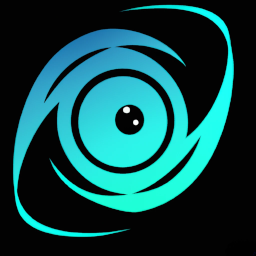
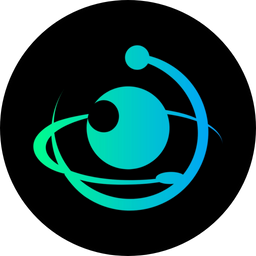
.

diff --git a/index.html b/index.html
@@ -1,5 +1,5 @@
 <!DOCTYPE html><!--  This site was created in Webflow. https://www.webflow.com  -->
-<!--  Last Published: Mon Jul 10 2023 20:48:55 GMT+0000 (Coordinated Universal Time)  -->
+<!--  Last Published: Mon Jul 10 2023 21:24:34 GMT+0000 (Coordinated Universal Time)  -->
 <html data-wf-page="63914266075340ff73167253" data-wf-site="639142660753402b7a167252" lang="en">
 <head>
   <meta charset="utf-8">
@@ -23,7 +23,7 @@
   <script src="https://ajax.googleapis.com/ajax/libs/webfont/1.6.26/webfont.js" type="text/javascript"></script>
   <script type="text/javascript">WebFont.load({  google: {    families: ["Exo:100,100italic,200,200italic,300,300italic,400,400italic,500,500italic,600,600italic,700,700italic,800,800italic,900,900italic","Inter:100,200,300,regular,500,600,700,800,900"]  }});</script>
   <script type="text/javascript">!function(o,c){var n=c.documentElement,t=" w-mod-";n.className+=t+"js",("ontouchstart"in o||o.DocumentTouch&&c instanceof DocumentTouch)&&(n.className+=t+"touch")}(window,document);</script>
-  <link href="images/favicon.ico" rel="shortcut icon" type="image/x-icon">
+  <link href="images/favicon.png" rel="shortcut icon" type="image/x-icon">
   <link href="images/webclip.png" rel="apple-touch-icon">
   <link href="https://quantumone.network/" rel="canonical">
   <script async="" src="https://www.googletagmanager.com/gtag/js?id=G-FC9HT4VEY6"></script>
@@ -296,13 +296,13 @@
         <div data-w-id="f567adfd-1fc5-47fc-fe1d-b3cb4ed22463" style="-webkit-transform:translate3d(0, 15px, 0) scale3d(1, 1, 1) rotateX(0) rotateY(0) rotateZ(0) skew(0, 0);-moz-transform:translate3d(0, 15px, 0) scale3d(1, 1, 1) rotateX(0) rotateY(0) rotateZ(0) skew(0, 0);-ms-transform:translate3d(0, 15px, 0) scale3d(1, 1, 1) rotateX(0) rotateY(0) rotateZ(0) skew(0, 0);transform:translate3d(0, 15px, 0) scale3d(1, 1, 1) rotateX(0) rotateY(0) rotateZ(0) skew(0, 0);opacity:0" class="client"><img src="images/BlocknativeLogo_RGB_FullColor_W.svg" loading="lazy" alt="blocknative-logo" class="logo-client">
           <div class="bg-client"></div>
         </div>
-        <div data-w-id="15951e27-b4c4-fda3-2e35-207951f74bc2" style="-webkit-transform:translate3d(0, 15px, 0) scale3d(1, 1, 1) rotateX(0) rotateY(0) rotateZ(0) skew(0, 0);-moz-transform:translate3d(0, 15px, 0) scale3d(1, 1, 1) rotateX(0) rotateY(0) rotateZ(0) skew(0, 0);-ms-transform:translate3d(0, 15px, 0) scale3d(1, 1, 1) rotateX(0) rotateY(0) rotateZ(0) skew(0, 0);transform:translate3d(0, 15px, 0) scale3d(1, 1, 1) rotateX(0) rotateY(0) rotateZ(0) skew(0, 0);opacity:0" class="client"><img src="images/dif_logo-01.pg.png" loading="lazy" sizes="(max-width: 479px) 63vw, 161.75347900390625px" srcset="images/dif_logo-01.pg-p-500.png 500w, images/dif_logo-01.pg-p-800.png 800w, images/dif_logo-01.pg-p-1080.png 1080w, images/dif_logo-01.pg-p-1600.png 1600w, images/dif_logo-01.pg-p-2000.png 2000w, images/dif_logo-01.pg.png 2000w" alt="dif-logo" class="logo-client">
+        <div data-w-id="15951e27-b4c4-fda3-2e35-207951f74bc2" style="-webkit-transform:translate3d(0, 15px, 0) scale3d(1, 1, 1) rotateX(0) rotateY(0) rotateZ(0) skew(0, 0);-moz-transform:translate3d(0, 15px, 0) scale3d(1, 1, 1) rotateX(0) rotateY(0) rotateZ(0) skew(0, 0);-ms-transform:translate3d(0, 15px, 0) scale3d(1, 1, 1) rotateX(0) rotateY(0) rotateZ(0) skew(0, 0);transform:translate3d(0, 15px, 0) scale3d(1, 1, 1) rotateX(0) rotateY(0) rotateZ(0) skew(0, 0);opacity:0" class="client"><img src="images/dif_logo-01.pg.png" loading="lazy" sizes="100vw" srcset="images/dif_logo-01.pg-p-500.png 500w, images/dif_logo-01.pg-p-800.png 800w, images/dif_logo-01.pg-p-1080.png 1080w, images/dif_logo-01.pg-p-1600.png 1600w, images/dif_logo-01.pg-p-2000.png 2000w, images/dif_logo-01.pg.png 2000w" alt="dif-logo" class="logo-client">
           <div class="bg-client"></div>
         </div>
-        <div data-w-id="d837c98e-8ed0-5a81-0b73-79c8cfad71ca" style="-webkit-transform:translate3d(0, 15px, 0) scale3d(1, 1, 1) rotateX(0) rotateY(0) rotateZ(0) skew(0, 0);-moz-transform:translate3d(0, 15px, 0) scale3d(1, 1, 1) rotateX(0) rotateY(0) rotateZ(0) skew(0, 0);-ms-transform:translate3d(0, 15px, 0) scale3d(1, 1, 1) rotateX(0) rotateY(0) rotateZ(0) skew(0, 0);transform:translate3d(0, 15px, 0) scale3d(1, 1, 1) rotateX(0) rotateY(0) rotateZ(0) skew(0, 0);opacity:0" class="client"><img src="images/auth0-logo-white.png" loading="lazy" sizes="151.8229217529297px" srcset="images/auth0-logo-white-p-500.png 500w, images/auth0-logo-white.png 530w" alt="auth0-logo" class="logo-client">
+        <div data-w-id="d837c98e-8ed0-5a81-0b73-79c8cfad71ca" style="-webkit-transform:translate3d(0, 15px, 0) scale3d(1, 1, 1) rotateX(0) rotateY(0) rotateZ(0) skew(0, 0);-moz-transform:translate3d(0, 15px, 0) scale3d(1, 1, 1) rotateX(0) rotateY(0) rotateZ(0) skew(0, 0);-ms-transform:translate3d(0, 15px, 0) scale3d(1, 1, 1) rotateX(0) rotateY(0) rotateZ(0) skew(0, 0);transform:translate3d(0, 15px, 0) scale3d(1, 1, 1) rotateX(0) rotateY(0) rotateZ(0) skew(0, 0);opacity:0" class="client"><img src="images/auth0-logo-white.png" loading="lazy" sizes="100vw" srcset="images/auth0-logo-white-p-500.png 500w, images/auth0-logo-white.png 530w" alt="auth0-logo" class="logo-client">
           <div class="bg-client"></div>
         </div>
-        <div data-w-id="844d1e39-a177-95a8-d613-60f08197b22e" style="-webkit-transform:translate3d(0, 15px, 0) scale3d(1, 1, 1) rotateX(0) rotateY(0) rotateZ(0) skew(0, 0);-moz-transform:translate3d(0, 15px, 0) scale3d(1, 1, 1) rotateX(0) rotateY(0) rotateZ(0) skew(0, 0);-ms-transform:translate3d(0, 15px, 0) scale3d(1, 1, 1) rotateX(0) rotateY(0) rotateZ(0) skew(0, 0);transform:translate3d(0, 15px, 0) scale3d(1, 1, 1) rotateX(0) rotateY(0) rotateZ(0) skew(0, 0);opacity:0" class="client"><img src="images/fractal-logo-gr-p-500.png" loading="lazy" sizes="(max-width: 479px) 63vw, 202.20486450195312px" srcset="images/fractal-logo-gr-p-500-p-500.png 500w, images/fractal-logo-gr-p-500.png 500w" alt="fractal-logo
+        <div data-w-id="844d1e39-a177-95a8-d613-60f08197b22e" style="-webkit-transform:translate3d(0, 15px, 0) scale3d(1, 1, 1) rotateX(0) rotateY(0) rotateZ(0) skew(0, 0);-moz-transform:translate3d(0, 15px, 0) scale3d(1, 1, 1) rotateX(0) rotateY(0) rotateZ(0) skew(0, 0);-ms-transform:translate3d(0, 15px, 0) scale3d(1, 1, 1) rotateX(0) rotateY(0) rotateZ(0) skew(0, 0);transform:translate3d(0, 15px, 0) scale3d(1, 1, 1) rotateX(0) rotateY(0) rotateZ(0) skew(0, 0);opacity:0" class="client"><img src="images/fractal-logo-gr-p-500.png" loading="lazy" sizes="100vw" srcset="images/fractal-logo-gr-p-500-p-500.png 500w, images/fractal-logo-gr-p-500.png 500w" alt="fractal-logo
 " class="logo-client">
           <div class="bg-client"></div>
         </div>

diff --git a/template-info/style-guide.html b/template-info/style-guide.html
@@ -1,5 +1,5 @@
 <!DOCTYPE html><!--  This site was created in Webflow. https://www.webflow.com  -->
-<!--  Last Published: Mon Jul 10 2023 20:48:55 GMT+0000 (Coordinated Universal Time)  -->
+<!--  Last Published: Mon Jul 10 2023 21:24:34 GMT+0000 (Coordinated Universal Time)  -->
 <html data-wf-page="63914266075340489a167264" data-wf-site="639142660753402b7a167252" lang="en">
 <head>
   <meta charset="utf-8">
@@ -21,7 +21,7 @@
   <script src="https://ajax.googleapis.com/ajax/libs/webfont/1.6.26/webfont.js" type="text/javascript"></script>
   <script type="text/javascript">WebFont.load({  google: {    families: ["Exo:100,100italic,200,200italic,300,300italic,400,400italic,500,500italic,600,600italic,700,700italic,800,800italic,900,900italic","Inter:100,200,300,regular,500,600,700,800,900"]  }});</script>
   <script type="text/javascript">!function(o,c){var n=c.documentElement,t=" w-mod-";n.className+=t+"js",("ontouchstart"in o||o.DocumentTouch&&c instanceof DocumentTouch)&&(n.className+=t+"touch")}(window,document);</script>
-  <link href="../images/favicon.ico" rel="shortcut icon" type="image/x-icon">
+  <link href="../images/favicon.png" rel="shortcut icon" type="image/x-icon">
   <link href="../images/webclip.png" rel="apple-touch-icon">
   <link href="https://quantumone.network/template-info/style-guide" rel="canonical">
   <script async="" src="https://www.googletagmanager.com/gtag/js?id=G-FC9HT4VEY6"></script>

diff --git a/template-info/changelog.html b/template-info/changelog.html
@@ -1,5 +1,5 @@
 <!DOCTYPE html><!--  This site was created in Webflow. https://www.webflow.com  -->
-<!--  Last Published: Mon Jul 10 2023 20:48:55 GMT+0000 (Coordinated Universal Time)  -->
+<!--  Last Published: Mon Jul 10 2023 21:24:34 GMT+0000 (Coordinated Universal Time)  -->
 <html data-wf-page="6391426607534011d3167259" data-wf-site="639142660753402b7a167252" lang="en">
 <head>
   <meta charset="utf-8">
@@ -21,7 +21,7 @@
   <script src="https://ajax.googleapis.com/ajax/libs/webfont/1.6.26/webfont.js" type="text/javascript"></script>
   <script type="text/javascript">WebFont.load({  google: {    families: ["Exo:100,100italic,200,200italic,300,300italic,400,400italic,500,500italic,600,600italic,700,700italic,800,800italic,900,900italic","Inter:100,200,300,regular,500,600,700,800,900"]  }});</script>
   <script type="text/javascript">!function(o,c){var n=c.documentElement,t=" w-mod-";n.className+=t+"js",("ontouchstart"in o||o.DocumentTouch&&c instanceof DocumentTouch)&&(n.className+=t+"touch")}(window,document);</script>
-  <link href="../images/favicon.ico" rel="shortcut icon" type="image/x-icon">
+  <link href="../images/favicon.png" rel="shortcut icon" type="image/x-icon">
   <link href="../images/webclip.png" rel="apple-touch-icon">
   <link href="https://quantumone.network/template-info/changelog" rel="canonical">
   <script async="" src="https://www.googletagmanager.com/gtag/js?id=G-FC9HT4VEY6"></script>

diff --git a/template-info/licensing.html b/template-info/licensing.html
@@ -1,5 +1,5 @@
 <!DOCTYPE html><!--  This site was created in Webflow. https://www.webflow.com  -->
-<!--  Last Published: Mon Jul 10 2023 20:48:55 GMT+0000 (Coordinated Universal Time)  -->
+<!--  Last Published: Mon Jul 10 2023 21:24:34 GMT+0000 (Coordinated Universal Time)  -->
 <html data-wf-page="639142660753402ccd167261" data-wf-site="639142660753402b7a167252" lang="en">
 <head>
   <meta charset="utf-8">
@@ -21,7 +21,7 @@
   <script src="https://ajax.googleapis.com/ajax/libs/webfont/1.6.26/webfont.js" type="text/javascript"></script>
   <script type="text/javascript">WebFont.load({  google: {    families: ["Exo:100,100italic,200,200italic,300,300italic,400,400italic,500,500italic,600,600italic,700,700italic,800,800italic,900,900italic","Inter:100,200,300,regular,500,600,700,800,900"]  }});</script>
   <script type="text/javascript">!function(o,c){var n=c.documentElement,t=" w-mod-";n.className+=t+"js",("ontouchstart"in o||o.DocumentTouch&&c instanceof DocumentTouch)&&(n.className+=t+"touch")}(window,document);</script>
-  <link href="../images/favicon.ico" rel="shortcut icon" type="image/x-icon">
+  <link href="../images/favicon.png" rel="shortcut icon" type="image/x-icon">
   <link href="../images/webclip.png" rel="apple-touch-icon">
   <link href="https://quantumone.network/template-info/licensing" rel="canonical">
   <script async="" src="https://www.googletagmanager.com/gtag/js?id=G-FC9HT4VEY6"></script>

diff --git a/order-confirmation.html b/order-confirmation.html
@@ -1,5 +1,5 @@
 <!DOCTYPE html><!--  This site was created in Webflow. https://www.webflow.com  -->
-<!--  Last Published: Mon Jul 10 2023 20:48:55 GMT+0000 (Coordinated Universal Time)  -->
+<!--  Last Published: Mon Jul 10 2023 21:24:34 GMT+0000 (Coordinated Universal Time)  -->
 <html data-wf-page="63914266075340361c167262" data-wf-site="639142660753402b7a167252" lang="en">
 <head>
   <meta charset="utf-8">
@@ -21,7 +21,7 @@
   <script src="https://ajax.googleapis.com/ajax/libs/webfont/1.6.26/webfont.js" type="text/javascript"></script>
   <script type="text/javascript">WebFont.load({  google: {    families: ["Exo:100,100italic,200,200italic,300,300italic,400,400italic,500,500italic,600,600italic,700,700italic,800,800italic,900,900italic","Inter:100,200,300,regular,500,600,700,800,900"]  }});</script>
   <script type="text/javascript">!function(o,c){var n=c.documentElement,t=" w-mod-";n.className+=t+"js",("ontouchstart"in o||o.DocumentTouch&&c instanceof DocumentTouch)&&(n.className+=t+"touch")}(window,document);</script>
-  <link href="images/favicon.ico" rel="shortcut icon" type="image/x-icon">
+  <link href="images/favicon.png" rel="shortcut icon" type="image/x-icon">
   <link href="images/webclip.png" rel="apple-touch-icon">
   <link href="https://quantumone.network/order-confirmation" rel="canonical">
   <script async="" src="https://www.googletagmanager.com/gtag/js?id=G-FC9HT4VEY6"></script>

diff --git a/detail_category.html b/detail_category.html
@@ -1,5 +1,5 @@
 <!DOCTYPE html><!--  This site was created in Webflow. https://www.webflow.com  -->
-<!--  Last Published: Mon Jul 10 2023 20:48:55 GMT+0000 (Coordinated Universal Time)  -->
+<!--  Last Published: Mon Jul 10 2023 21:24:34 GMT+0000 (Coordinated Universal Time)  -->
 <html data-wf-page="6391426607534003a916725c" data-wf-site="639142660753402b7a167252" lang="en">
 <head>
   <meta charset="utf-8">
@@ -21,7 +21,7 @@
   <script src="https://ajax.googleapis.com/ajax/libs/webfont/1.6.26/webfont.js" type="text/javascript"></script>
   <script type="text/javascript">WebFont.load({  google: {    families: ["Exo:100,100italic,200,200italic,300,300italic,400,400italic,500,500italic,600,600italic,700,700italic,800,800italic,900,900italic","Inter:100,200,300,regular,500,600,700,800,900"]  }});</script>
   <script type="text/javascript">!function(o,c){var n=c.documentElement,t=" w-mod-";n.className+=t+"js",("ontouchstart"in o||o.DocumentTouch&&c instanceof DocumentTouch)&&(n.className+=t+"touch")}(window,document);</script>
-  <link href="images/favicon.ico" rel="shortcut icon" type="image/x-icon">
+  <link href="images/favicon.png" rel="shortcut icon" type="image/x-icon">
   <link href="images/webclip.png" rel="apple-touch-icon">
   <link href="https://quantumone.network/detail_category" rel="canonical">
   <script async="" src="https://www.googletagmanager.com/gtag/js?id=G-FC9HT4VEY6"></script>

diff --git a/paypal-checkout.html b/paypal-checkout.html
@@ -1,5 +1,5 @@
 <!DOCTYPE html><!--  This site was created in Webflow. https://www.webflow.com  -->
-<!--  Last Published: Mon Jul 10 2023 20:48:55 GMT+0000 (Coordinated Universal Time)  -->
+<!--  Last Published: Mon Jul 10 2023 21:24:34 GMT+0000 (Coordinated Universal Time)  -->
 <html data-wf-page="639142660753407b9e167263" data-wf-site="639142660753402b7a167252" lang="en">
 <head>
   <meta charset="utf-8">
@@ -22,7 +22,7 @@
   <script src="https://ajax.googleapis.com/ajax/libs/webfont/1.6.26/webfont.js" type="text/javascript"></script>
   <script type="text/javascript">WebFont.load({  google: {    families: ["Exo:100,100italic,200,200italic,300,300italic,400,400italic,500,500italic,600,600italic,700,700italic,800,800italic,900,900italic","Inter:100,200,300,regular,500,600,700,800,900"]  }});</script>
   <script type="text/javascript">!function(o,c){var n=c.documentElement,t=" w-mod-";n.className+=t+"js",("ontouchstart"in o||o.DocumentTouch&&c instanceof DocumentTouch)&&(n.className+=t+"touch")}(window,document);</script>
-  <link href="images/favicon.ico" rel="shortcut icon" type="image/x-icon">
+  <link href="images/favicon.png" rel="shortcut icon" type="image/x-icon">
   <link href="images/webclip.png" rel="apple-touch-icon">
   <link href="https://quantumone.network/paypal-checkout" rel="canonical">
   <script async="" src="https://www.googletagmanager.com/gtag/js?id=G-FC9HT4VEY6"></script>

diff --git a/detail_product.html b/detail_product.html
@@ -1,5 +1,5 @@
 <!DOCTYPE html><!--  This site was created in Webflow. https://www.webflow.com  -->
-<!--  Last Published: Mon Jul 10 2023 20:48:55 GMT+0000 (Coordinated Universal Time)  -->
+<!--  Last Published: Mon Jul 10 2023 21:24:34 GMT+0000 (Coordinated Universal Time)  -->
 <html data-wf-page="639142660753403bf316725e" data-wf-site="639142660753402b7a167252" lang="en">
 <head>
   <meta charset="utf-8">
@@ -23,7 +23,7 @@
   <script src="https://ajax.googleapis.com/ajax/libs/webfont/1.6.26/webfont.js" type="text/javascript"></script>
   <script type="text/javascript">WebFont.load({  google: {    families: ["Exo:100,100italic,200,200italic,300,300italic,400,400italic,500,500italic,600,600italic,700,700italic,800,800italic,900,900italic","Inter:100,200,300,regular,500,600,700,800,900"]  }});</script>
   <script type="text/javascript">!function(o,c){var n=c.documentElement,t=" w-mod-";n.className+=t+"js",("ontouchstart"in o||o.DocumentTouch&&c instanceof DocumentTouch)&&(n.className+=t+"touch")}(window,document);</script>
-  <link href="images/favicon.ico" rel="shortcut icon" type="image/x-icon">
+  <link href="images/favicon.png" rel="shortcut icon" type="image/x-icon">
   <link href="images/webclip.png" rel="apple-touch-icon">
   <link href="https://quantumone.network/detail_product" rel="canonical">
   <script async="" src="https://www.googletagmanager.com/gtag/js?id=G-FC9HT4VEY6"></script>

diff --git a/detail_post.html b/detail_post.html
@@ -1,5 +1,5 @@
 <!DOCTYPE html><!--  This site was created in Webflow. https://www.webflow.com  -->
-<!--  Last Published: Mon Jul 10 2023 20:48:55 GMT+0000 (Coordinated Universal Time)  -->
+<!--  Last Published: Mon Jul 10 2023 21:24:34 GMT+0000 (Coordinated Universal Time)  -->
 <html data-wf-page="639142660753403ae116725d" data-wf-site="639142660753402b7a167252" lang="en">
 <head>
   <meta charset="utf-8">
@@ -23,7 +23,7 @@
   <script src="https://ajax.googleapis.com/ajax/libs/webfont/1.6.26/webfont.js" type="text/javascript"></script>
   <script type="text/javascript">WebFont.load({  google: {    families: ["Exo:100,100italic,200,200italic,300,300italic,400,400italic,500,500italic,600,600italic,700,700italic,800,800italic,900,900italic","Inter:100,200,300,regular,500,600,700,800,900"]  }});</script>
   <script type="text/javascript">!function(o,c){var n=c.documentElement,t=" w-mod-";n.className+=t+"js",("ontouchstart"in o||o.DocumentTouch&&c instanceof DocumentTouch)&&(n.className+=t+"touch")}(window,document);</script>
-  <link href="images/favicon.ico" rel="shortcut icon" type="image/x-icon">
+  <link href="images/favicon.png" rel="shortcut icon" type="image/x-icon">
   <link href="images/webclip.png" rel="apple-touch-icon">
   <link href="https://quantumone.network/detail_post" rel="canonical">
   <script async="" src="https://www.googletagmanager.com/gtag/js?id=G-FC9HT4VEY6"></script>

diff --git a/get-started.html b/get-started.html
@@ -1,5 +1,5 @@
 <!DOCTYPE html><!--  This site was created in Webflow. https://www.webflow.com  -->
-<!--  Last Published: Mon Jul 10 2023 20:48:55 GMT+0000 (Coordinated Universal Time)  -->
+<!--  Last Published: Mon Jul 10 2023 21:24:34 GMT+0000 (Coordinated Universal Time)  -->
 <html data-wf-page="63914266075340a4f8167260" data-wf-site="639142660753402b7a167252" lang="en">
 <head>
   <meta charset="utf-8">
@@ -21,7 +21,7 @@
   <script src="https://ajax.googleapis.com/ajax/libs/webfont/1.6.26/webfont.js" type="text/javascript"></script>
   <script type="text/javascript">WebFont.load({  google: {    families: ["Exo:100,100italic,200,200italic,300,300italic,400,400italic,500,500italic,600,600italic,700,700italic,800,800italic,900,900italic","Inter:100,200,300,regular,500,600,700,800,900"]  }});</script>
   <script type="text/javascript">!function(o,c){var n=c.documentElement,t=" w-mod-";n.className+=t+"js",("ontouchstart"in o||o.DocumentTouch&&c instanceof DocumentTouch)&&(n.className+=t+"touch")}(window,document);</script>
-  <link href="images/favicon.ico" rel="shortcut icon" type="image/x-icon">
+  <link href="images/favicon.png" rel="shortcut icon" type="image/x-icon">
   <link href="images/webclip.png" rel="apple-touch-icon">
   <link href="https://quantumone.network/get-started" rel="canonical">
   <script async="" src="https://www.googletagmanager.com/gtag/js?id=G-FC9HT4VEY6"></script>

diff --git a/detail_sku.html b/detail_sku.html
@@ -1,5 +1,5 @@
 <!DOCTYPE html><!--  This site was created in Webflow. https://www.webflow.com  -->
-<!--  Last Published: Mon Jul 10 2023 20:48:55 GMT+0000 (Coordinated Universal Time)  -->
+<!--  Last Published: Mon Jul 10 2023 21:24:34 GMT+0000 (Coordinated Universal Time)  -->
 <html data-wf-page="639142660753403d5b16725f" data-wf-site="639142660753402b7a167252" lang="en">
 <head>
   <meta charset="utf-8">
@@ -14,7 +14,7 @@
   <script src="https://ajax.googleapis.com/ajax/libs/webfont/1.6.26/webfont.js" type="text/javascript"></script>
   <script type="text/javascript">WebFont.load({  google: {    families: ["Exo:100,100italic,200,200italic,300,300italic,400,400italic,500,500italic,600,600italic,700,700italic,800,800italic,900,900italic","Inter:100,200,300,regular,500,600,700,800,900"]  }});</script>
   <script type="text/javascript">!function(o,c){var n=c.documentElement,t=" w-mod-";n.className+=t+"js",("ontouchstart"in o||o.DocumentTouch&&c instanceof DocumentTouch)&&(n.className+=t+"touch")}(window,document);</script>
-  <link href="images/favicon.ico" rel="shortcut icon" type="image/x-icon">
+  <link href="images/favicon.png" rel="shortcut icon" type="image/x-icon">
   <link href="images/webclip.png" rel="apple-touch-icon">
   <link href="https://quantumone.network/detail_sku" rel="canonical">
   <script async="" src="https://www.googletagmanager.com/gtag/js?id=G-FC9HT4VEY6"></script>

diff --git a/technology.html b/technology.html
@@ -1,5 +1,5 @@
 <!DOCTYPE html><!--  This site was created in Webflow. https://www.webflow.com  -->
-<!--  Last Published: Mon Jul 10 2023 20:48:55 GMT+0000 (Coordinated Universal Time)  -->
+<!--  Last Published: Mon Jul 10 2023 21:24:34 GMT+0000 (Coordinated Universal Time)  -->
 <html data-wf-page="639142660753405dcb167265" data-wf-site="639142660753402b7a167252" lang="en">
 <head>
   <meta charset="utf-8">
@@ -21,7 +21,7 @@
   <script src="https://ajax.googleapis.com/ajax/libs/webfont/1.6.26/webfont.js" type="text/javascript"></script>
   <script type="text/javascript">WebFont.load({  google: {    families: ["Exo:100,100italic,200,200italic,300,300italic,400,400italic,500,500italic,600,600italic,700,700italic,800,800italic,900,900italic","Inter:100,200,300,regular,500,600,700,800,900"]  }});</script>
   <script type="text/javascript">!function(o,c){var n=c.documentElement,t=" w-mod-";n.className+=t+"js",("ontouchstart"in o||o.DocumentTouch&&c instanceof DocumentTouch)&&(n.className+=t+"touch")}(window,document);</script>
-  <link href="images/favicon.ico" rel="shortcut icon" type="image/x-icon">
+  <link href="images/favicon.png" rel="shortcut icon" type="image/x-icon">
   <link href="images/webclip.png" rel="apple-touch-icon">
   <link href="https://quantumone.network/technology" rel="canonical">
   <script async="" src="https://www.googletagmanager.com/gtag/js?id=G-FC9HT4VEY6"></script>
